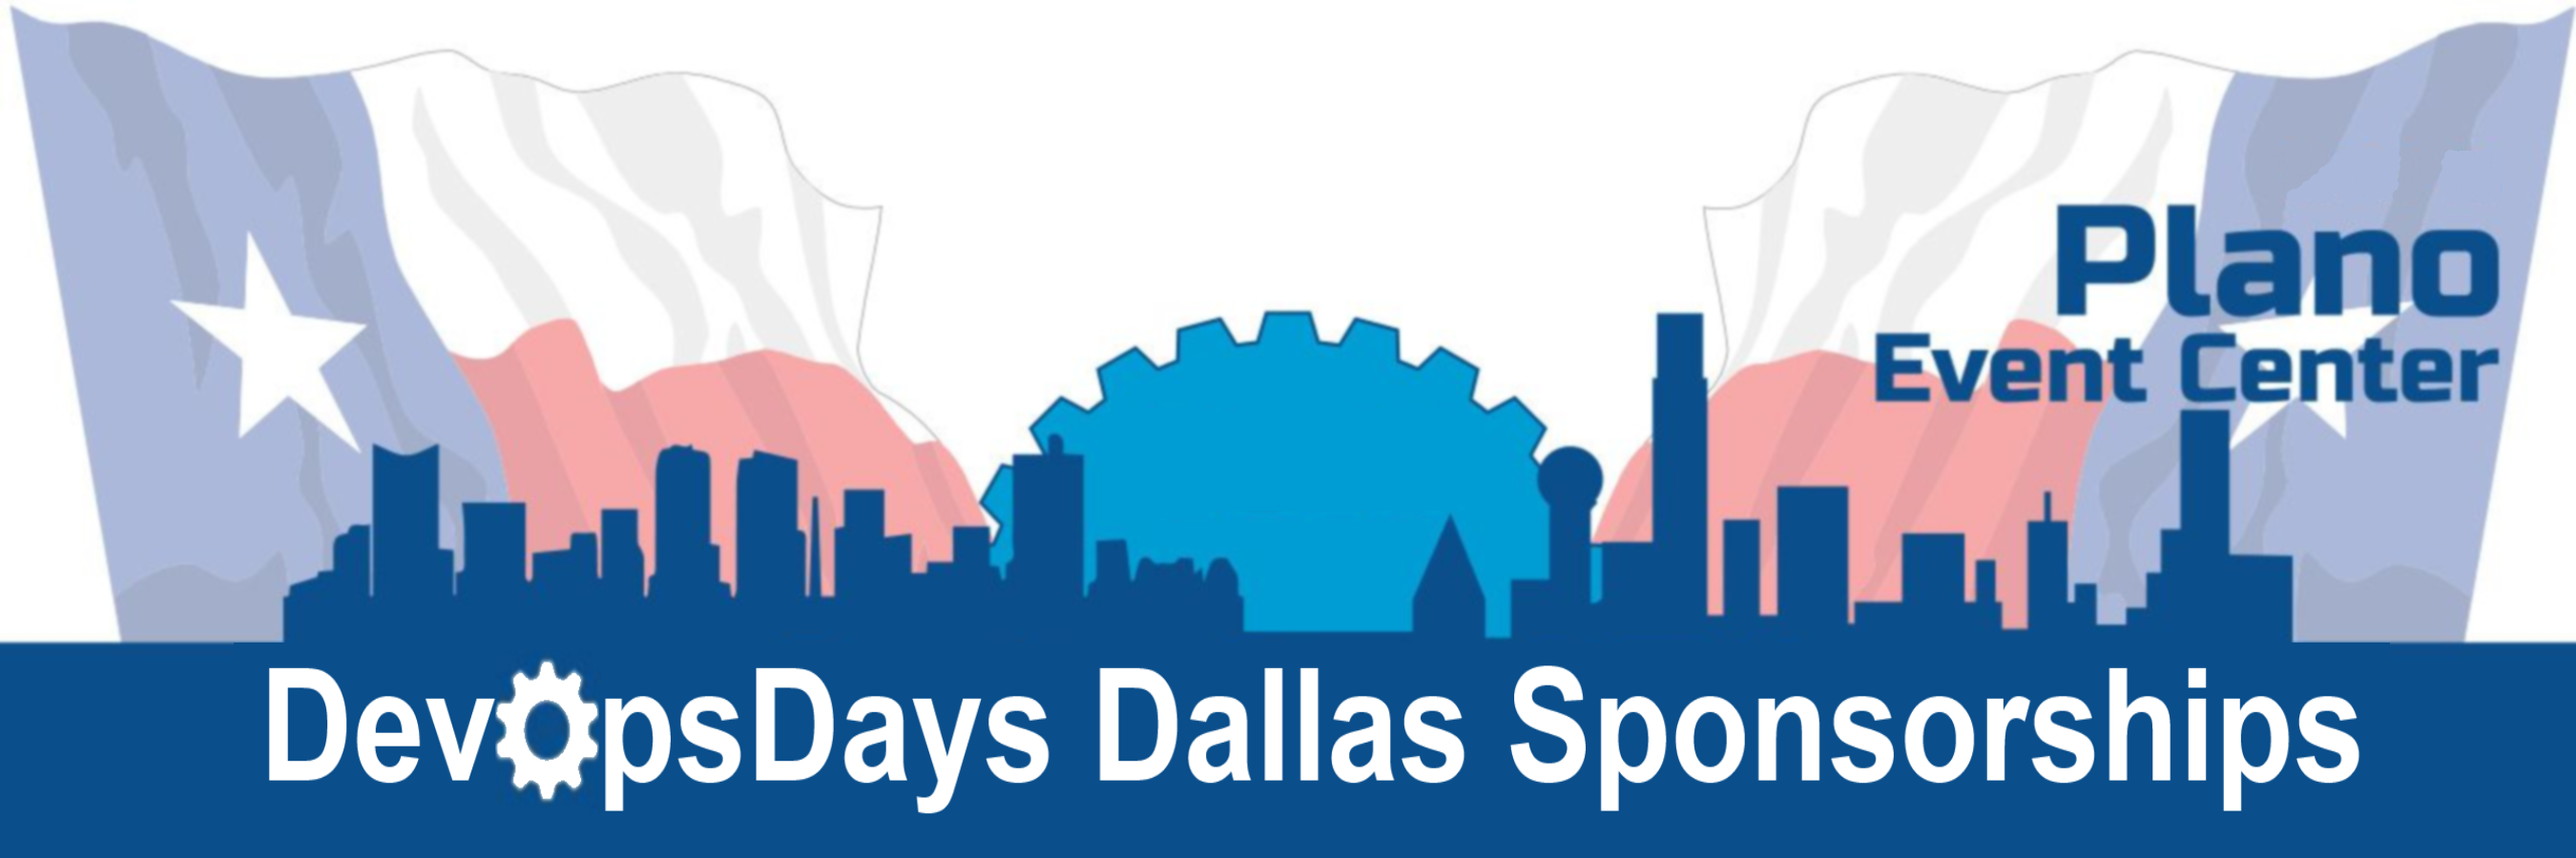
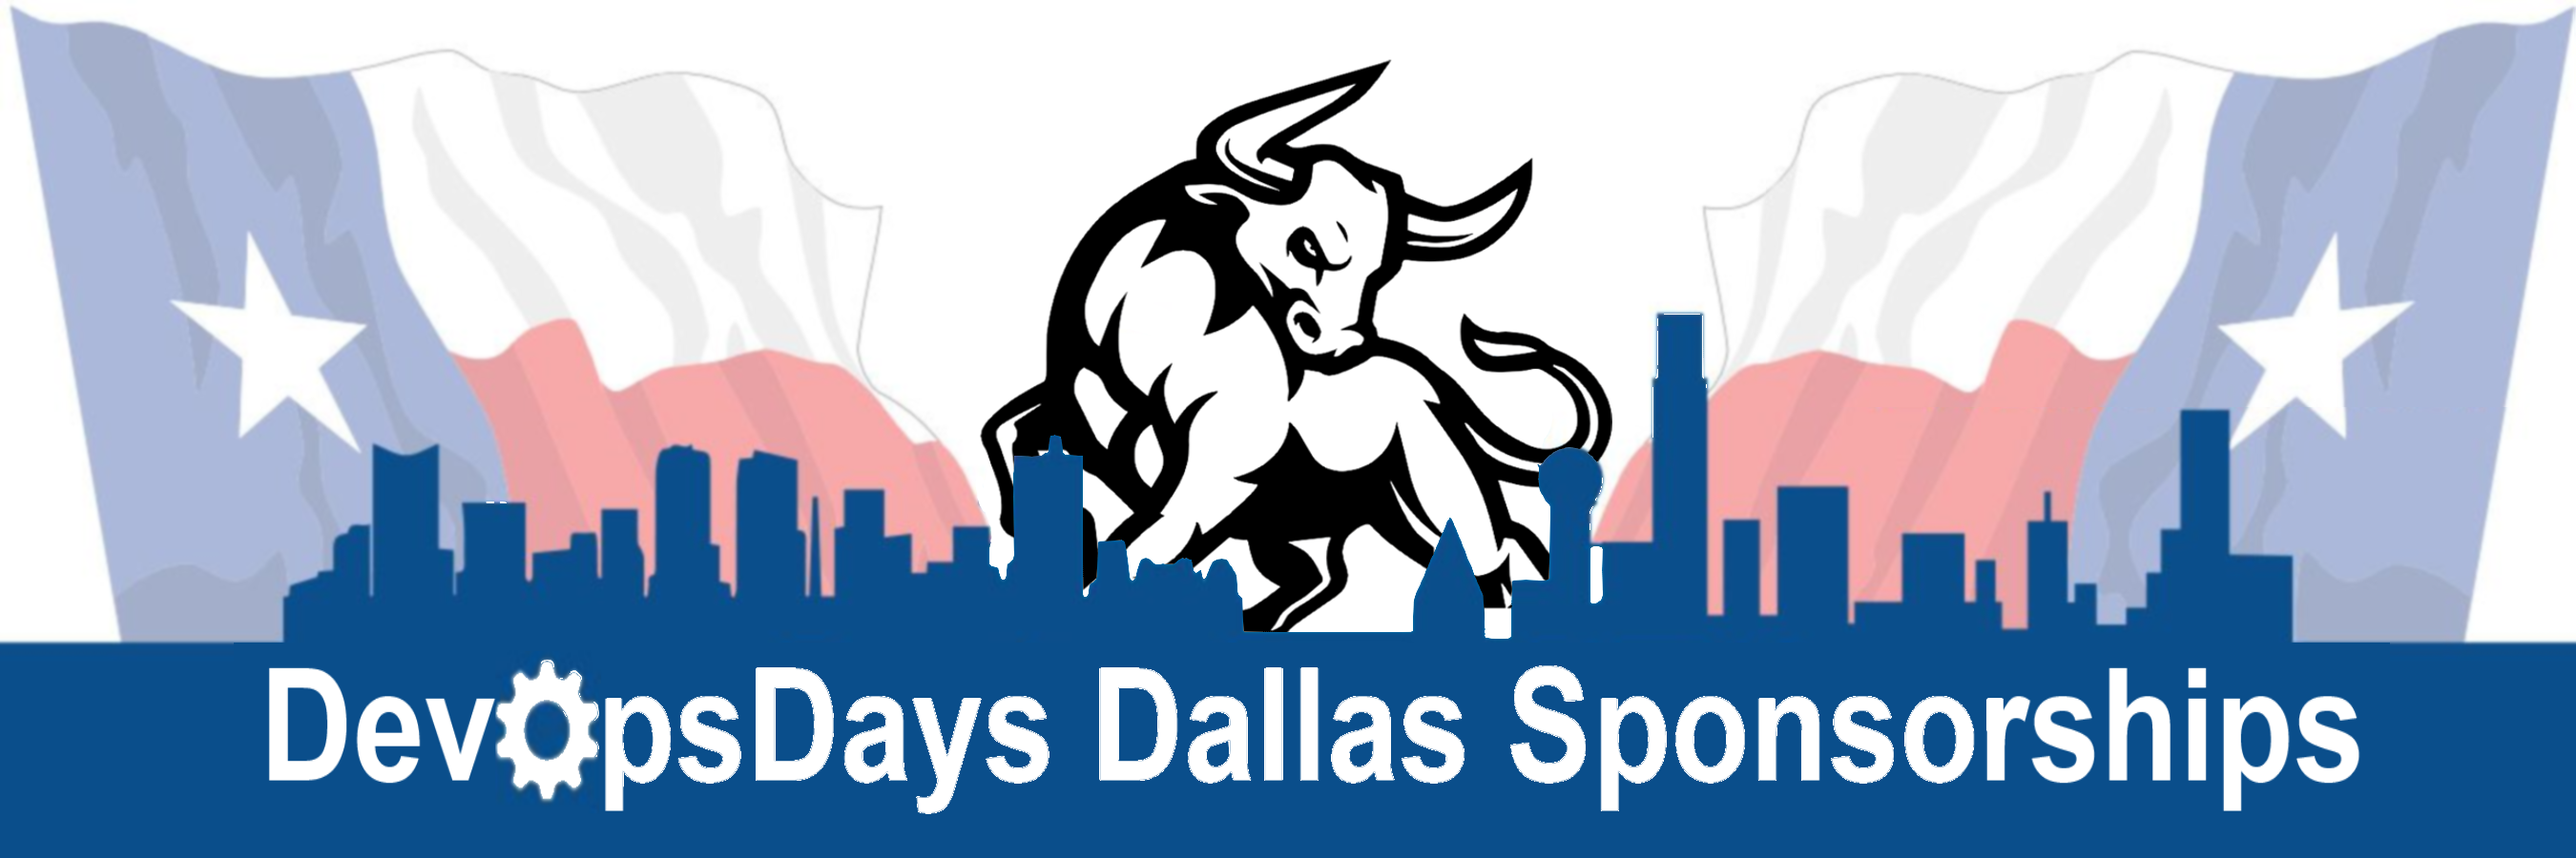
DFW2026 update organizers, clean up welcome, location and sponsor pages

Changed region(s): [[0.3733, 0.0622, 0.6533, 0.7467], [0.7156, 0.2178, 0.9956, 0.4667]]

diff --git a/content/events/2026-dallas/sponsor.md b/content/events/2026-dallas/sponsor.md
@@ -5,15 +5,15 @@ Description = "Interested in sponsoring DevOpsDays Dallas 2026? We greatly value
 +++
 
 <div style="float:left;">
-  <img alt="DevOpsDays Dallas 2025" src="/events/2025-dallas/sponsorship.png" style="max-width: 65%;">
+  <img alt="DevOpsDays Dallas 2026" src="/events/2026-dallas/sponsorship.png" style="max-width: 65%;">
 <div class = "row">
 <div class = "col-md-8 col-sm-12">
 <br><br>
-<!-- We greatly value sponsors for this community event. If you are interested in sponsoring, please check out our prospectus below. If you need a soft copy of our prospectus, click here to <a href="https://assets.devopsdays.org/events/2025/dallas/DevOpsDays_Dallas_2025_Prospectus.pdf" target="_blank"><strong>download PDF</strong></a> or <a href="mailto:dallas@devopsdays.org?subject=Interested%20in%20Sponsoring%20DevOpsDays%20Dallas%202025"><strong>send us an email</strong></a>.
+<!-- We greatly value sponsors for this community event. If you are interested in sponsoring, please check out our prospectus below. If you need a soft copy of our prospectus, click here to <a href="https://assets.devopsdays.org/events/2026/dallas/DevOpsDays_Dallas_2026_Prospectus.pdf" target="_blank"><strong>download PDF</strong></a> or <a href="mailto:dallas@devopsdays.org?subject=Interested%20in%20Sponsoring%20DevOpsDays%20Dallas%202026"><strong>send us an email</strong></a>.
 <br>
 <hr>
 
-<h4><a href="https://assets.devopsdays.org/events/2025/dallas/DevOpsDaysDallasSponsorFAQ2025.pdf" target="_blank">Sponsors FAQ 2025</a></h4>
+<h4><a href="https://assets.devopsdays.org/events/2026/dallas/DevOpsDaysDallasSponsorFAQ2026.pdf" target="_blank">Sponsors FAQ 2026</a></h4>
 <hr> -->
 <iframe width="560" height="315" src="https://www.youtube.com/embed/ZWWI6AknjXs?si=k4BVzMCtkUieFs7g" title="YouTube video player" frameborder="0" allow="accelerometer; autoplay; clipboard-write; encrypted-media; gyroscope; picture-in-picture; web-share" referrerpolicy="strict-origin-when-cross-origin" allowfullscreen></iframe>
 
@@ -23,4 +23,279 @@ Any attendee also has the opportunity to demonstrate products or projects as par
 <br><br>
 The best thing to do is send engineers to interact with the experts at DevOpsDays on their own terms.
 <br><br>
-Please email the organizers at <a href="mailto:dallas@devopsdays.org?subject=General%20Questions%20Regarding%20Sponsorship%20of%20DevOpsDays%20Dallas%202025"><strong>dallas@devopsdays.org</strong></a> with any questions you may have about sponsoring the event.
+Please email the organizers at <a href="mailto:dallas@devopsdays.org?subject=General%20Questions%20Regarding%20Sponsorship%20of%20DevOpsDays%20Dallas%202026"><strong>dallas@devopsdays.org</strong></a> with any questions you may have about sponsoring the event.
+<br><br>
+<h2>Sponsorship Packages</h2>
+
+<table class="table table-bordered table-hover">
+  <thead>
+    <tr>
+      <th scope="col" colspan="2">THE GOODS</th>
+      <th scope="col">PLATINUM</th>
+      <th scope="col">GOLD</th>
+      <th scope="col">SILVER</th>
+    </tr>
+  </thead>
+  <tbody>
+    <tr>
+      <td colspan="2"><b>Price</b></td>
+      <td>$15,000</td>
+      <td>$10,000</td>
+      <td>$7,000</td>
+    </tr>
+    <tr>
+      <td colspan="2"></td>
+      <td colspan="5">
+      <!-- Note: PayPal payments include 3% service charge. -->
+      <strong><a href="mailto:dallas@devopsdays.org?subject=DevOpsDays%20Dallas%202026%20Sponsorship">Email us</a> if you prefer to pay by check.</strong>
+      </td>
+    </tr>
+    <tr>
+      <td colspan="2"></td>
+      <!-- <td><img src = "/events/2026-dallas/not_available.png"> -->
+        <!-- platinum Paypal button -->
+      <td>
+        <form action="https://www.paypal.com/cgi-bin/webscr" method="post" target="_top">
+          <input type="hidden" name="cmd" value="_s-xclick">
+          <input type="hidden" name="hosted_button_id" value="GNR4HVH2BR4UA">
+          <input type="image" src="https://www.paypalobjects.com/en_US/i/btn/btn_paynowCC_LG.gif" border="0" name="submit" alt="PayPal - The safer, easier way to pay online!">
+          <img alt="" border="0" src="https://www.paypalobjects.com/en_US/i/scr/pixel.gif" width="1" height="1">
+        </form>
+        <!-- <a href="mailto:dallas@devopsdays.org?subject=Interested%20in%20Sponsoring%20DevOpsDays%20Dallas%202026">Contact us</a>  -->
+      </td>
+      <td>
+        <!-- <img src = "/events/2026-dallas/not_available.png"> -->
+        <!-- gold Paypal button -->
+        <form action="https://www.paypal.com/cgi-bin/webscr" method="post" target="_top">
+          <input type="hidden" name="cmd" value="_s-xclick">
+          <input type="hidden" name="hosted_button_id" value="QGEFGDR6XFRP2">
+          <input type="image" src="https://www.paypalobjects.com/en_US/i/btn/btn_paynowCC_LG.gif" border="0" name="submit" alt="PayPal - The safer, easier way to pay online!">
+          <img alt="" border="0" src="https://www.paypalobjects.com/en_US/i/scr/pixel.gif" width="1" height="1">
+        </form>
+        <!-- <a href="mailto:dallas@devopsdays.org?subject=Interested%20in%20Sponsoring%20DevOpsDays%20dDallas%202020">Contact us</a> -->
+      </td>
+      <td>
+      <!-- <img src = "/events/2026-dallas/not_available.png"> -->
+        <!-- silver Paypal button -->
+        <form action="https://www.paypal.com/cgi-bin/webscr" method="post" target="_top">
+          <input type="hidden" name="cmd" value="_s-xclick">
+          <input type="hidden" name="hosted_button_id" value="MCC6ADNWPHTGC">
+          <input type="image" src="https://www.paypalobjects.com/en_US/i/btn/btn_paynowCC_LG.gif" border="0" name="submit" alt="PayPal - The safer, easier way to pay online!">
+          <img alt="" border="0" src="https://www.paypalobjects.com/en_US/i/scr/pixel.gif" width="1" height="1">
+        </form>
+      </td>
+    <tr>
+      <td colspan="2"><b>Tickets Included</b></td>
+      <td>5</td>
+      <td>3</td>
+      <td>2</td>      
+    </tr>
+    <tr>
+      <td colspan="2"><b>Logo on DevOpsDays Dallas 2026 event website</b></td>
+      <td><img src = "/events/2026-dallas/boot.png"></td>
+      <td><img src = "/events/2026-dallas/boot.png"></td>
+      <td><img src = "/events/2026-dallas/boot.png"></td>
+    </tr>
+    <tr>
+      <td colspan="2"><b>Social Media recognition on Twitter, LinkedIn, Facebook, amoung others.</b></td>
+      <td><img src = "/events/2026-dallas/boot.png"></td>
+      <td><img src = "/events/2026-dallas/boot.png"></td>
+      <td><img src = "/events/2026-dallas/boot.png"></td>
+    </tr>
+    <tr>
+      <td colspan="2"><b>Shout-out from MC's at kickoff and again at breaks</b></td>
+      <td><img src = "/events/2026-dallas/boot.png"></td>
+      <td><img src = "/events/2026-dallas/boot.png"></td>
+      <td><img src = "/events/2026-dallas/boot.png"></td>
+    </tr>
+      <td colspan="2"><b>Logo on displayed in sponsor area & Social Networking Event</b></td>
+      <td><img src = "/events/2026-dallas/boot.png"></td>
+      <td><img src = "/events/2026-dallas/boot.png"></td>
+      <td><img src = "/events/2026-dallas/boot.png"></td>
+    </tr>
+    <tr>
+      <td colspan="2"><b>Dedicated table for swag/marketing/staffing</b></td>
+      <td><img src = "/events/2026-dallas/boot.png"></td>
+      <td><img src = "/events/2026-dallas/boot.png"></td>
+      <td><img src = "/events/2026-dallas/half-boot.png"><br><strong>shared</strong></td>
+    </tr>
+    <tr>
+      <td colspan="2"><b>Logo on a slide, rotating during breaks</b></td>
+      <td><img src = "/events/2026-dallas/boot.png"><br><strong>DEDICATED</strong></td>
+      <td><img src = "/events/2026-dallas/half-boot.png"><br><strong>shared</strong></td>
+      <td><img src = "/events/2026-dallas/half-boot.png"><br><strong>shared</strong></td>
+    </tr>
+      <td colspan="2"><b>Pitch to full audience, including streaming audience <br>(provided we are able to stream the videos)</b></td>
+      <td><strong><img src = "/events/2026-dallas/half-boot.png"><strong><br>1-minute</strong></td>
+      <td><img src = "/events/2026-dallas/half-boot.png"><strong><br>1-minute</strong></td>
+      <td></td>
+    </tr>
+    <tr>
+      <td colspan="2"><b>20% Discount code provided to share with your client community</b></td>
+      <td><strong><img src = "/events/2026-dallas/half-boot.png"><strong><br>(10) tickets</strong></td>
+      <td><img src = "/events/2026-dallas/half-boot.png"><strong><br>(10) tickets</strong></td>
+      <td><img src = "/events/2026-dallas/half-boot.png"><strong><br>(10) tickets</strong></td>
+    </tr>
+    <!-- <tr>
+      <td colspan="2">Logo on participant emails</td>
+      <td><img src = "/events/2026-dallas/boot.png"></td>
+      <td></td>
+      <td></td>
+    </tr> -->
+    <tr>
+      <td colspan="2"><b>Dedicated demo room for customer presentations, workshops, etc.</b></td>
+      <td><img src = "/events/2026-dallas/boot.png"></td>
+      <td></td>
+      <td></td>
+    </tr>
+  </tbody>
+</table>
+<br/>
+<h2>Media / Community Sponsorships</h2>
+
+All Media / Community sponsors are entities we value as pillars of continuous learning in our community. If you would like to discuss these sponsorships with us, just ask! Email us at: <a href="mailto:dallas@devopsdays.org?subject=General%20Questions%20Regarding%20Sponsorship%20of%20DevOpsDays%20Dallas%202026">dallas@devopsdays.org</a>.
+<br>
+<table class="table table-bordered table-hover">
+  <thead>
+    <tr>
+      <th scope="col"></th>
+      <th scope="col">Sponsorship</th>
+      <th scope="col">Price</th>
+      <th scope="col">Description</th>
+      <th scope="col">Number Available</th>
+    </tr>
+  </thead>
+  <tbody>
+    <tr>
+      <td align="center"><i class="fa fa-microphone fa-4x"></i></td>
+      <td><b>Media</b></td>
+      <td>$0.00</td>
+      <td>The media sponsorship is ideal for podcasts, blogs, news outlets, and other media who support DevOps. This sponsorship is free but we ask that you share information about DevOpsDays Dallas with your audience in order to become a Media Sponsor.
+          <ul class="fa-ul">
+            <li><i class="fa-li fa fa-check-square"></i>One (1) ticket included.</li>
+            <li><i class="fa-li fa fa-check-square"></i>10% discount code for ten (10) tickets to share with your audience.</li>
+            <li><i class="fa-li fa fa-check-square"></i>Logo on a shared slide, rotating during breaks.</li>
+            <li><i class="fa-li fa fa-check-square"></i>Logo on the DevOpsDays Dallas 2026 event website.</li>
+      <td>3</td>
+    </tr>
+    <tr>
+      <td align="center"><i class="fa fa-handshake fa-4x"></td>
+      <td><b>Community & Non-Profit (NPO)</b></td>
+        <br><br>
+        <!-- <img src = "/events/2026-dallas/not_available.png"></td> -->
+      <td>$0.00</td>
+      <td>The community and non-profit (NPO) sponsorships is ideal for local meetups, co-working spaces, and other non-commercial communities who support DevOps. These sponsorships are free, but we ask that you share information about DevOpsDays Dallas 2026 with your members in order to become a Community Sponsor.
+          <ul class="fa-ul">
+            <li><i class="fa-li fa fa-check-square"></i>One (1) ticket included.</li>
+            <li><i class="fa-li fa fa-check-square"></i>10% discount code for ten (10) tickets to share with your audience.</li>
+            <li><i class="fa-li fa fa-check-square"></i>Logo on a shared slide, rotating during breaks.</li>
+            <li><i class="fa-li fa fa-check-square"></i>Logo on the DevOpsDays Dallas 2026 event website.</li>
+      <td>10</td>
+    </tr>
+  </tbody>
+</table>
+<br>
+<h2>À La Carte Sponsorships</h2>
+
+ À La Carte items are only available to Platinum or Gold sponsors.  We can be creative with these sponsorships, so just ask! Email us: <a href="mailto:dallas@devopsdays.org?subject=General%20Questions%20Regarding%20Sponsorship%20of%20DevOpsDays%20Dallas%202026">dallas@devopsdays.org</a>.
+<br/>
+
+<table class="table table-bordered table-hover">
+  <thead>
+    <tr>
+      <th scope="col"></th>
+      <th scope="col">Sponsorship</th>
+      <th scope="col">Price</th>
+      <th scope="col">Description</th>
+      <th scope="col">Number Available</th>
+    </tr>
+  </thead>
+  <tbody>
+    <tr>
+      <td align="center"><i class="fa fa-music fa-4x"></i></td>
+      <td><b>Happy Hour</b></td>
+      <td align="center">$7,500
+        <br><br>
+        <!-- <img src = "/events/2026-dallas/not_available.png"> -->
+        <form action="https://www.paypal.com/cgi-bin/webscr" method="post" target="_top">
+            <input type="hidden" name="cmd" value="_s-xclick">
+            <input type="hidden" name="hosted_button_id" value="7N7YJXNS9X9JS">
+            <input type="image" src="https://www.paypalobjects.com/en_US/i/btn/btn_paynowCC_LG.gif" border="0" name="submit" alt="PayPal - The safer, easier way to pay online!">
+            <img alt="" border="0" src="https://www.paypalobjects.com/en_US/i/scr/pixel.gif" width="1" height="1">
+          </form>
+      </td>
+      <td>Happy Hour will be held both evenings of the event. All conference attendees will be invited to a happy hour. The Happy Hour sponsorship includes some special perks not listed in the table above.
+          <ul class="fa-ul">
+            <li><i class="fa-li fa fa-check-square"></i>Two (2) sponsorships are available, one for each day of the conference.</li>
+            <li><i class="fa-li fa fa-check-square"></i>Recognition and logo on a shared slide, rotating during breaks.</li>
+            <li><i class="fa-li fa fa-check-square"></i>Logo and branding recognizing the sponsorship of the happy hour.</li>
+            <li><i class="fa-li fa fa-check-square"></i>Recognition and logo on the DevOpsDays Dallas 2026 event website.</li>
+            <li><i class="fa-li fa fa-check-square"></i>All beverages to be served are included in the price.</li></td>
+      <td>1</td>
+    </tr>
+    <tr>
+      <td align="center"><i class="fa fa-id-badge fa-4x"></i></td>
+      <td><b>Lanyards</b></td>
+      <td align="center">$5,000
+      <br><br>
+        <!-- <img src = "/events/2026-dallas/not_available.png"> -->
+        <form action="https://www.paypal.com/cgi-bin/webscr" method="post" target="_top">
+            <input type="hidden" name="cmd" value="_s-xclick">
+            <input type="hidden" name="hosted_button_id" value="9WSW86ACTY3JW">
+            <input type="image" src="https://www.paypalobjects.com/en_US/i/btn/btn_paynowCC_LG.gif" border="0" name="submit" alt="PayPal - The safer, easier way to pay online!">
+            <img alt="" border="0" src="https://www.paypalobjects.com/en_US/i/scr/pixel.gif" width="1" height="1">
+          </form>
+      </td>
+      <td>
+          <ul class="fa-ul">
+            <li><i class="fa-li fa fa-check-square"></i>One (1) sponsorship is available.</li>
+            <li><i class="fa-li fa fa-check-square"></i>Recognition and logo on a shared slide, rotating during breaks.</li>
+            <li><i class="fa-li fa fa-check-square"></i>Logo and branding will be placed on the lanyard straps that are provided to all attendees.</li>
+            <li><i class="fa-li fa fa-check-square"></i>Recognition and logo on the DevOpsDays Dallas 2026 event website.</li>
+            <li><i class="fa-li fa fa-check-square"></i>The purchase of lanyards is included in the price.</li></td>
+      <td>1</td>
+    </tr>
+    <tr>
+      <td align="center"><i class="fa fa-coffee fa-4x"></i></td>
+      <td><b>Coffee Bar</b></td>
+      <td align="center">$5,000
+      <br><br>
+        <!-- <img src = "/events/2026-dallas/not_available.png"> -->
+        <form action="https://www.paypal.com/cgi-bin/webscr" method="post" target="_top">
+            <input type="hidden" name="cmd" value="_s-xclick">
+            <input type="hidden" name="hosted_button_id" value="6A439ZJ9AC5U4">
+            <input type="image" src="https://www.paypalobjects.com/en_US/i/btn/btn_paynowCC_LG.gif" border="0" name="submit" alt="PayPal - The safer, easier way to pay online!">
+            <img alt="" border="0" src="https://www.paypalobjects.com/en_US/i/scr/pixel.gif" width="1" height="1">
+          </form>
+      </td>
+      <td>A custom high-end coffee bar will be available in a large lounge area during the event. All conference attendees will be invited to receive a coffee. The attendees must get a ticket by interacting with a vendor to receive a free coffee.
+          <ul class="fa-ul">
+            <li><i class="fa-li fa fa-check-square"></i>Two (2) sponsorships are available, one for each day of the conference.</li>
+            <li><i class="fa-li fa fa-check-square"></i>Recognition and logo on a shared slide, rotating during breaks.</li>
+            <li><i class="fa-li fa fa-check-square"></i>Logo and branding recognizing the sponsorship of the Happy Hour.</li>
+            <li><i class="fa-li fa fa-check-square"></i>Recognition and logo on the DevOpsDays Dallas 2026 event website.</li>
+            <li><i class="fa-li fa fa-check-square"></i>All beverages to be served are included in the price.</li></td>
+      <td>2</td>
+    </tr>
+  </tbody>
+</table>
+<br/>
+<h2>Refund Policy</h2>
+We are excited to have you sponsor our event. We also understand that there are sometimes circumstances that may cause you to need to withdraw that sponsorship. Refunds for sponsorships are available according to the following schedule:
+<br><br>
+<h4>À La Carte sponsorships</h4>
+ <ul class="fa-ul">
+  <li><i class="fa-li fa fa-check-square"></i>No refunds are available for À La Carte sponsorships.</li>
+  </ul>
+ <br>
+<h4>All other sponsorship levels</h4>
+ <ul class="fa-ul">
+  <li><i class="fa-li fa fa-check-square"></i>Before July 1, 2026 - 80% refund is available.</li>
+  <li><i class="fa-li fa fa-check-square"></i>Between July 2 and August 31, 2026 - 75% refund is available.</li>
+  <li><i class="fa-li fa fa-check-square"></i>After September 1, 2026 - No refund is available.</li>
+<br>
+Please email the organizers at <a href="mailto:dallas@devopsdays.org?subject=General%20Questions%20Regarding%20Sponsorship%20of%20DevOpsDays%20Dallas%202026">dallas@devopsdays.org</a> with any questions you may have about sponsoring the event or requesting a refund.
+<br><br>
+Sponsors are responsible for providing high-res logos for use on the website and in promotional materials.  The preferred file formats are EPS or AI.
+<br><br>
+<b>All sponsors attendees must be registered to attend</b>. We offer sponsors 20% off for any additional sponsor registration requests after <i>Tickets Included</i> have been consumed.

diff --git a/content/events/2026-dallas/location.md b/content/events/2026-dallas/location.md
@@ -4,11 +4,11 @@ Type = "event"
 Description = "Location for devopsdays dallas 2026"
 +++
 
-<!-- Here we will provide you with information about the venue including address, map/direction, parking/transit, and any hotel details in this vicinity.
+Here we will provide you with information about the venue including address, map/direction, parking/transit, and any hotel details in this vicinity.
 <div style="float:left;">
-  <img alt="DevOpsDays Dallas 2025" src="/events/2025-dallas/planoeventcenter.jpg" style="max-width: 60%;">
+  <img alt="DevOpsDays Dallas 2025" src="/events/2026-dallas/banner1.png" style="max-width: 80%;">
 </div><br><br>
-<br><br> -->
+<br><br>
 
 ### <b>Conference location:</b> 
 ### Southwest Airlines Wings Building<br>

diff --git a/content/events/2026-dallas/welcome.md b/content/events/2026-dallas/welcome.md
@@ -29,14 +29,14 @@ Description = "devopsdays dallas 2026"
   </div>
 </div>
 
-<!-- <div class = "row">
+<div class = "row">
   <div class = "col-md-2">
     <strong>Register</strong>
   </div>
   <div class = "col-md-8">
     {{< event_link page="registration" text="Register to attend the conference!" >}}
   </div>
-</div> -->
+</div>
 
 <!-- <div class = "row">
   <div class = "col-md-2">

diff --git a/content/events/2026-dallas/registration.md b/content/events/2026-dallas/registration.md
@@ -6,6 +6,6 @@ Description = "Registration for devopsdays dallas 2026"
 
 <div style="width:100%; text-align:left;">
 
-Embed registration iframe/link/etc.
+{{< tix city="dallas" year="2026" info="show" >}}
 </div></div>
 </div>
